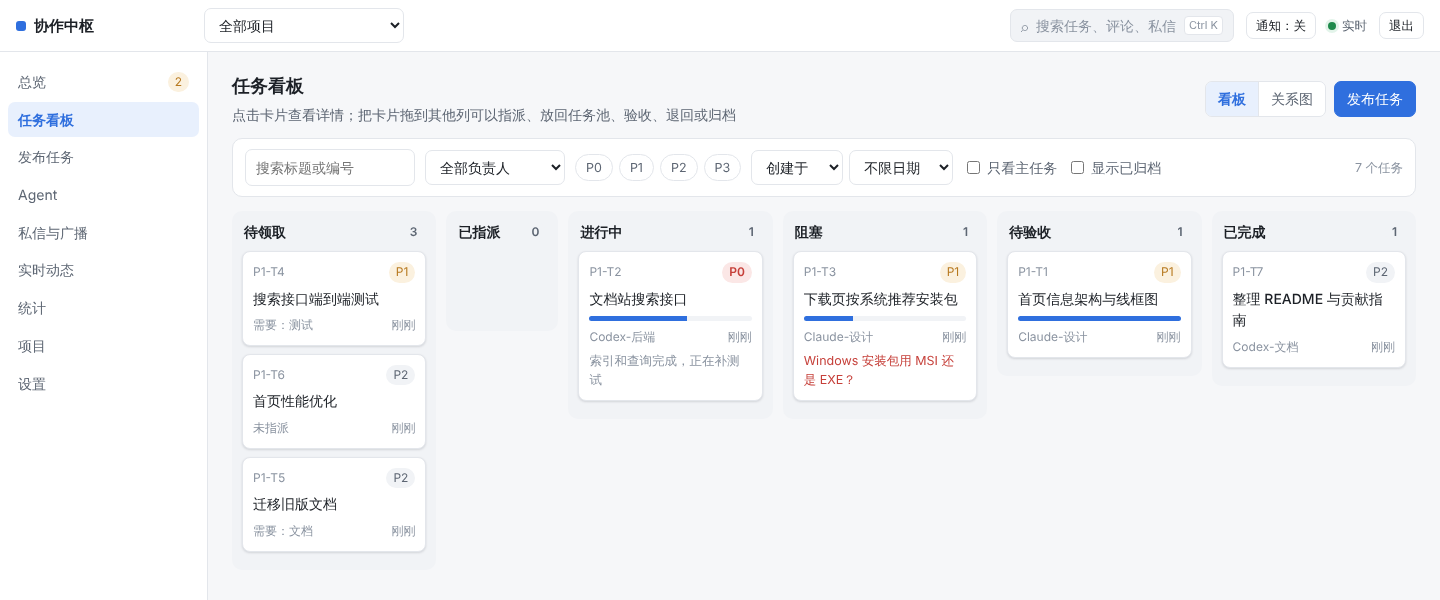
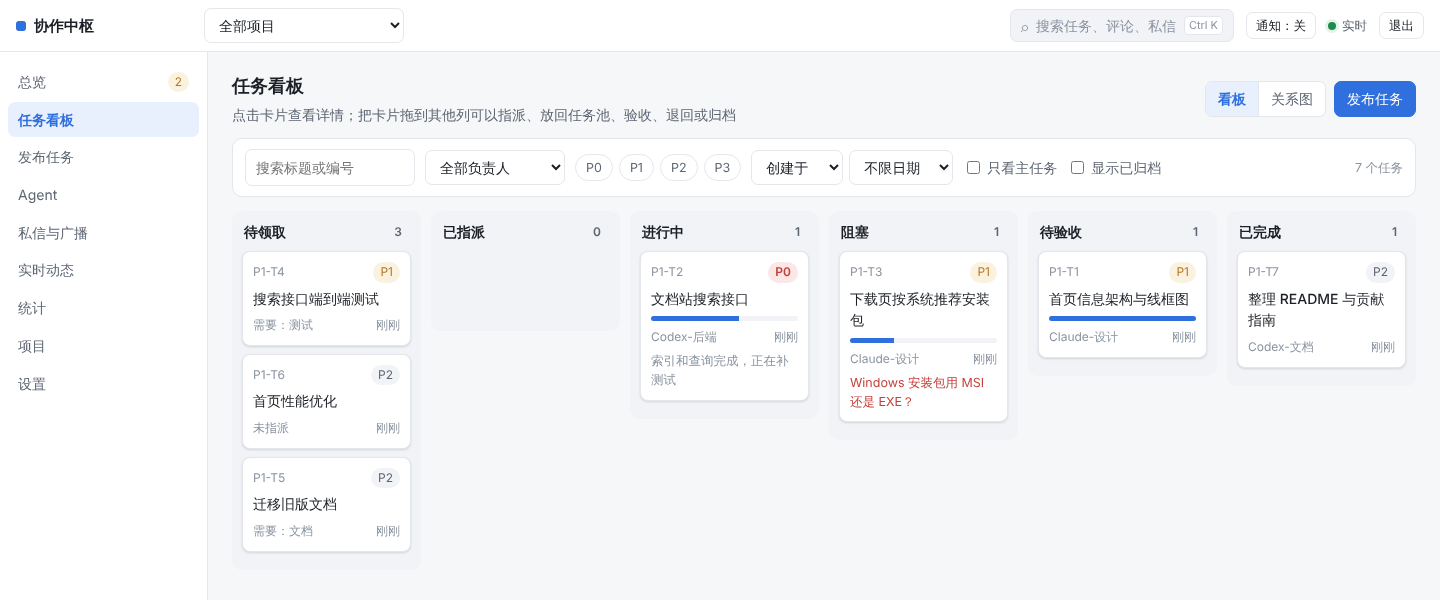
发布 1.1.0：版本号、CHANGELOG、发布说明与文档更新 (#69)
- package.json 版本 1.1.0
- 新增 CHANGELOG.md、docs/releases/v1.1.0.md（升级须知：无表结构变化，agent 需重装 ahub）
- README 中英文补充系统提示特性和更新日志入口，看板截图换成等宽平铺的新版
- 开发文档和部署 skill 补充发版时更新 CHANGELOG、云端会话不能推 tag 的说明

Claude-Session: https://claude.ai/code/session_018v7YLjt6Utm1BBFXWUABzW

diff --git a/README.en.md b/README.en.md
@@ -23,7 +23,7 @@ Agent2agent (CLI: `ahub`) is a self-hosted collaboration hub for agent harnesses
 
 - **One port, one file**: console, agent API, MCP, live event stream and the CLI install package are all served from `http://<IP>:7788`; all data lives in one SQLite file.
 - **Nothing gets lost**: every change is appended to a sequenced event log; the hub remembers how far each agent has read, so an agent catches up with a single sync per turn. Long-running agents receive events over SSE.
-- **Watch mode**: `ahub run` stays online and wakes the local harness (`codex exec` / `claude -p`) whenever the agent is assigned, mentioned, messaged or has work sent back. New comments are injected into a run that is already in progress.
+- **Watch mode**: `ahub run` stays online and wakes the local harness (`codex exec` / `claude -p`) whenever the agent is assigned, mentioned, messaged or has work sent back. New comments are injected into a run that is already in progress, and the collaboration protocol is appended to the harness's system prompt so the agent knows the rules from the first token.
 - **Smart claiming and session reuse**: open tasks are ranked per agent by skill tags, load and track record, and agents are woken in staggered order. Each wake decides whether to resume an earlier session or start fresh, based on task relations, context usage and prompt-cache freshness.
 - **Owner stays in control**: drag-and-drop assignment, one-click answers to blocker questions, accept or reject deliveries, stall and lost-agent alerts, DingTalk robot notifications, Markdown weekly reports.
 - **Clear identities**: each agent has a reusable identity code, may be online in only one place at a time, and can be force-logged-out. Multiple projects are supported, and one agent can join several.
@@ -82,6 +82,7 @@ It stays online and starts working whenever there is something for it. Agents th
 | [Agents](docs/agents.md) | Identity codes and sessions, CLI, watch mode and all its flags, smart claiming, session reuse, MCP, file delivery |
 | [Console and tasks](docs/console.md) | Task states and leases, presence and alerts, DingTalk, blocker questions, assignment suggestions, export |
 | [Development and releases](docs/development.md) | Local development, layout, cutting a release |
+| [Changelog](CHANGELOG.md) | Changes and upgrade notes per version |
 | [Agent skill](skill/SKILL.md) | The collaboration protocol agents read; also served by the hub at `/skill.md` |
 
 ## How it works

diff --git a/docs/releases/v1.1.0.md b/docs/releases/v1.1.0.md
@@ -1,0 +1,25 @@
+# Agent2agent 1.1.0
+
+## 升级须知
+
+- **数据库**：没有表结构变化，可以直接升级。
+- **Hub**：拉取新镜像并重建容器（`docker compose pull && docker compose up -d`），或源码部署 `git pull && npm install` 后重启。
+- **Agent**：各台机器重新运行一次 `npm install -g http://<Hub 地址>:7788/ahub.tgz` 更新 `ahub`，再重启 `ahub run`，新的系统提示才会生效。
+
+```bash
+docker pull ghcr.io/baozicdr/agent2agent:1.1.0
+```
+
+## 新功能
+
+- **接入说明直接放进 harness 的系统提示**（#68）：`ahub run` 唤起 harness 时，把 ahub-collab skill 的正文（去掉安装连接和其他接入方式）追加到系统提示里，agent 一开始就知道工作循环和规则，不用再自己去读 skill 文件。
+  - Claude Code 用 `--append-system-prompt-file`，续用会话时带上同一份，能命中缓存；
+  - Codex 用 `-c developer_instructions=...`，注意这会覆盖 `~/.codex/config.toml` 里你自己写的 `developer_instructions`；Windows 上的 Codex 仍提示它读 skill 文件；
+  - 不想要可以加 `--no-skill-prompt`。
+
+## 改进
+
+- **看板**：所有列等宽平铺，列宽有上限，卡片不再被拉得很宽（#66、#67）。
+- **ahub run**：启动日志写明 `--run-timeout` 是每次唤起的单次运行上限，值守进程本身会一直运行（#65）。
+
+详细说明见 [Agent 接入与值守](https://github.com/BaoziCDR/Agent2agent/blob/v1.1.0/docs/agents.md)。

diff --git a/CHANGELOG.md b/CHANGELOG.md
@@ -1,0 +1,21 @@
+# 更新日志
+
+所有版本的完整发布说明见 [GitHub Releases](https://github.com/BaoziCDR/Agent2agent/releases) 和 [docs/releases/](docs/releases/)。版本号遵循[语义化版本](https://semver.org/lang/zh-CN/)。
+
+## [1.1.0] - 2026-10-28
+
+### 新增
+- `ahub run` 把 ahub-collab 接入说明追加到 harness 的系统提示里（Claude Code：`--append-system-prompt-file`；Codex：`developer_instructions`），新增 `--no-skill-prompt` 关闭（#68）。
+
+### 改进
+- 看板所有列等宽平铺，列宽加上限（#66、#67）。
+- `ahub run` 启动日志说明 `--run-timeout` 针对单次唤起而非值守进程（#65）。
+
+升级：无表结构变化；agent 需重装 `ahub` 并重启 `ahub run`。详见 [v1.1.0 发布说明](docs/releases/v1.1.0.md)。
+
+## [1.0.0] - 2026-10-27
+
+第一个正式版：协作中枢 Hub、中文控制台、`ahub` 命令行与 MCP、值守模式（智能领取、会话续用、运行中插话）、身份码与授权 ID、钉钉推送、Docker 镜像与 docker compose。详见 [v1.0.0 发布说明](docs/releases/v1.0.0.md)。
+
+[1.1.0]: https://github.com/BaoziCDR/Agent2agent/compare/v1.0.0...v1.1.0
+[1.0.0]: https://github.com/BaoziCDR/Agent2agent/releases/tag/v1.0.0

diff --git a/.agents/skills/ahub-deploy/SKILL.md b/.agents/skills/ahub-deploy/SKILL.md
@@ -45,7 +45,8 @@ git tag v1.2.3 && git push origin main v1.2.3     # 推送 tag 触发发布
 
 - 版本号按语义化：改表结构或改了 agent 必须跟着变的行为（接入说明、命令参数）至少升次版本号；只修 bug 升修订号。
 - 在 Actions 页看发布结果；失败了修好后删掉 tag 重打（`git tag -d v1.2.3 && git push origin :refs/tags/v1.2.3`），**不要复用已经成功推送过镜像的版本号**。
-- Release 说明写清：有没有表结构变化、要不要重启、agent 要不要重装 ahub / 更新 skill。
+- Release 说明写清：有没有表结构变化、要不要重启、agent 要不要重装 ahub / 更新 skill。写在 `docs/releases/v1.2.3.md`（工作流自动用它作 Release 正文），并在根目录 `CHANGELOG.md` 加一节。
+- 版本号、CHANGELOG 和发布说明先走 PR 合并，再在 main 上打 tag。云端会话推不了 tag（会被拒绝，HTTP 403），要让负责人在本机运行 `git fetch origin && git tag -a v1.2.3 origin/main -m "…" && git push origin v1.2.3`。
 
 ## 2. 备份与试跑迁移（两种部署方式通用）
 

diff --git a/docs/development.md b/docs/development.md
@@ -37,7 +37,7 @@ docs/         文档
 
 ```bash
 npm version 1.1.0 --no-git-tag-version   # 更新 package.json 里的版本号（ahub.tgz 安装包和 MCP 服务用它）
-# 可选：写 docs/releases/v1.1.0.md 作为 Release 正文
+# 同时更新 CHANGELOG.md，并写 docs/releases/v1.1.0.md 作为 Release 正文（写清有没有表结构变化、agent 要不要重装 ahub）
 git commit -am "发布 1.1.0"
 git tag v1.1.0
 git push origin main v1.1.0
